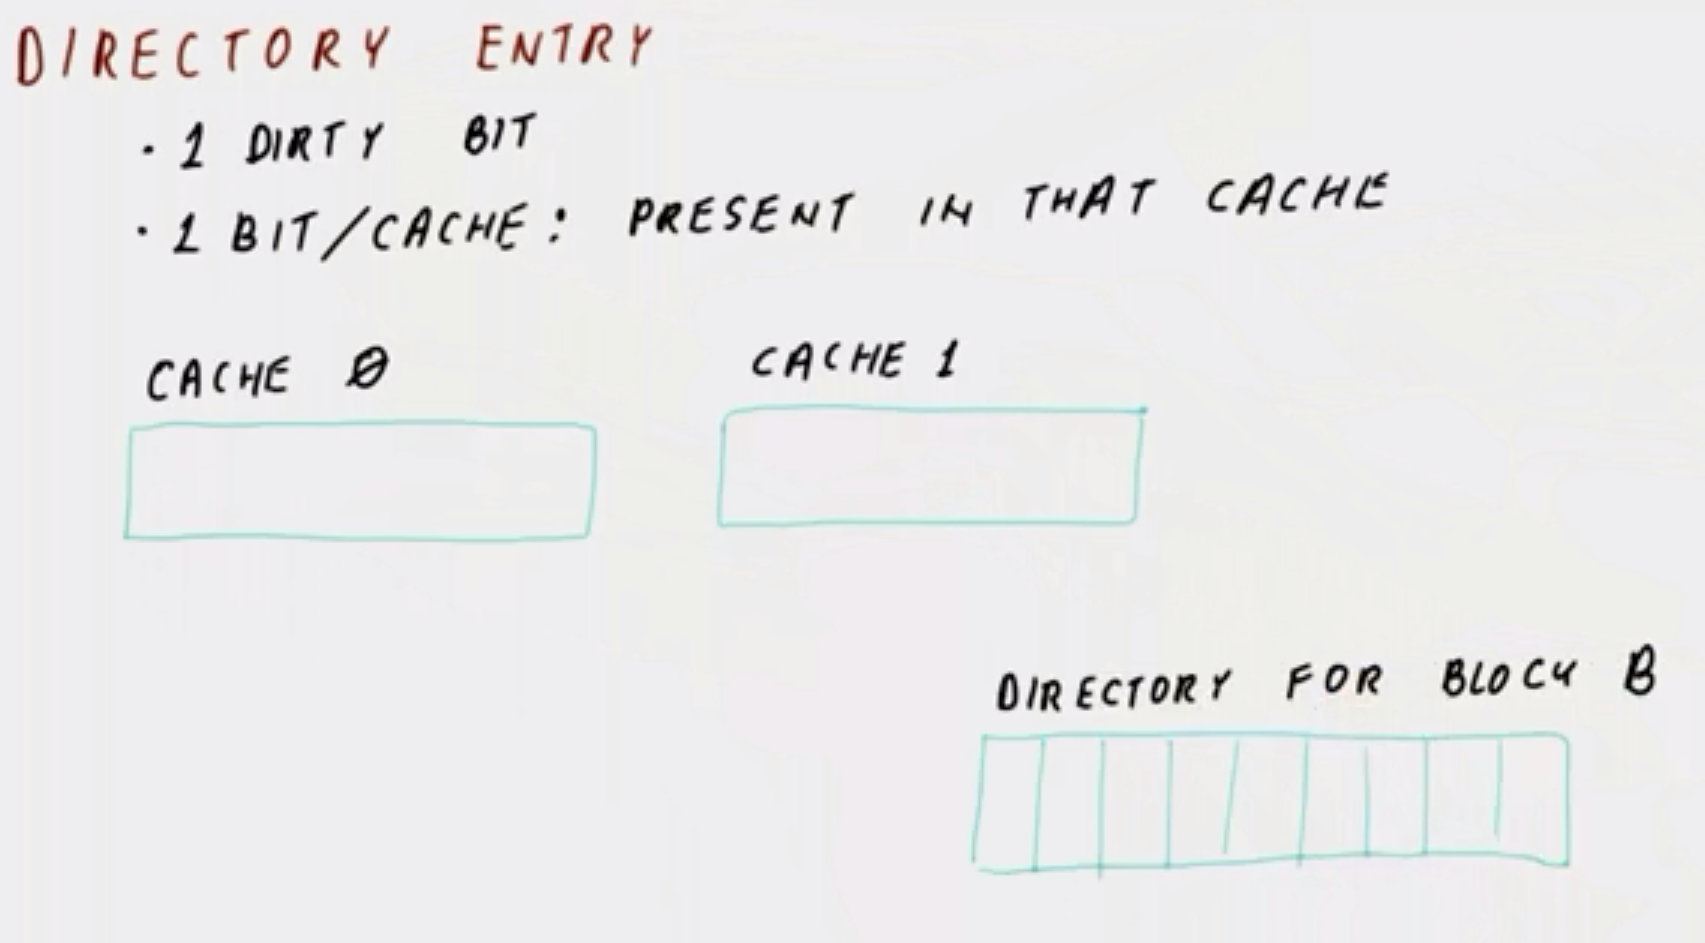
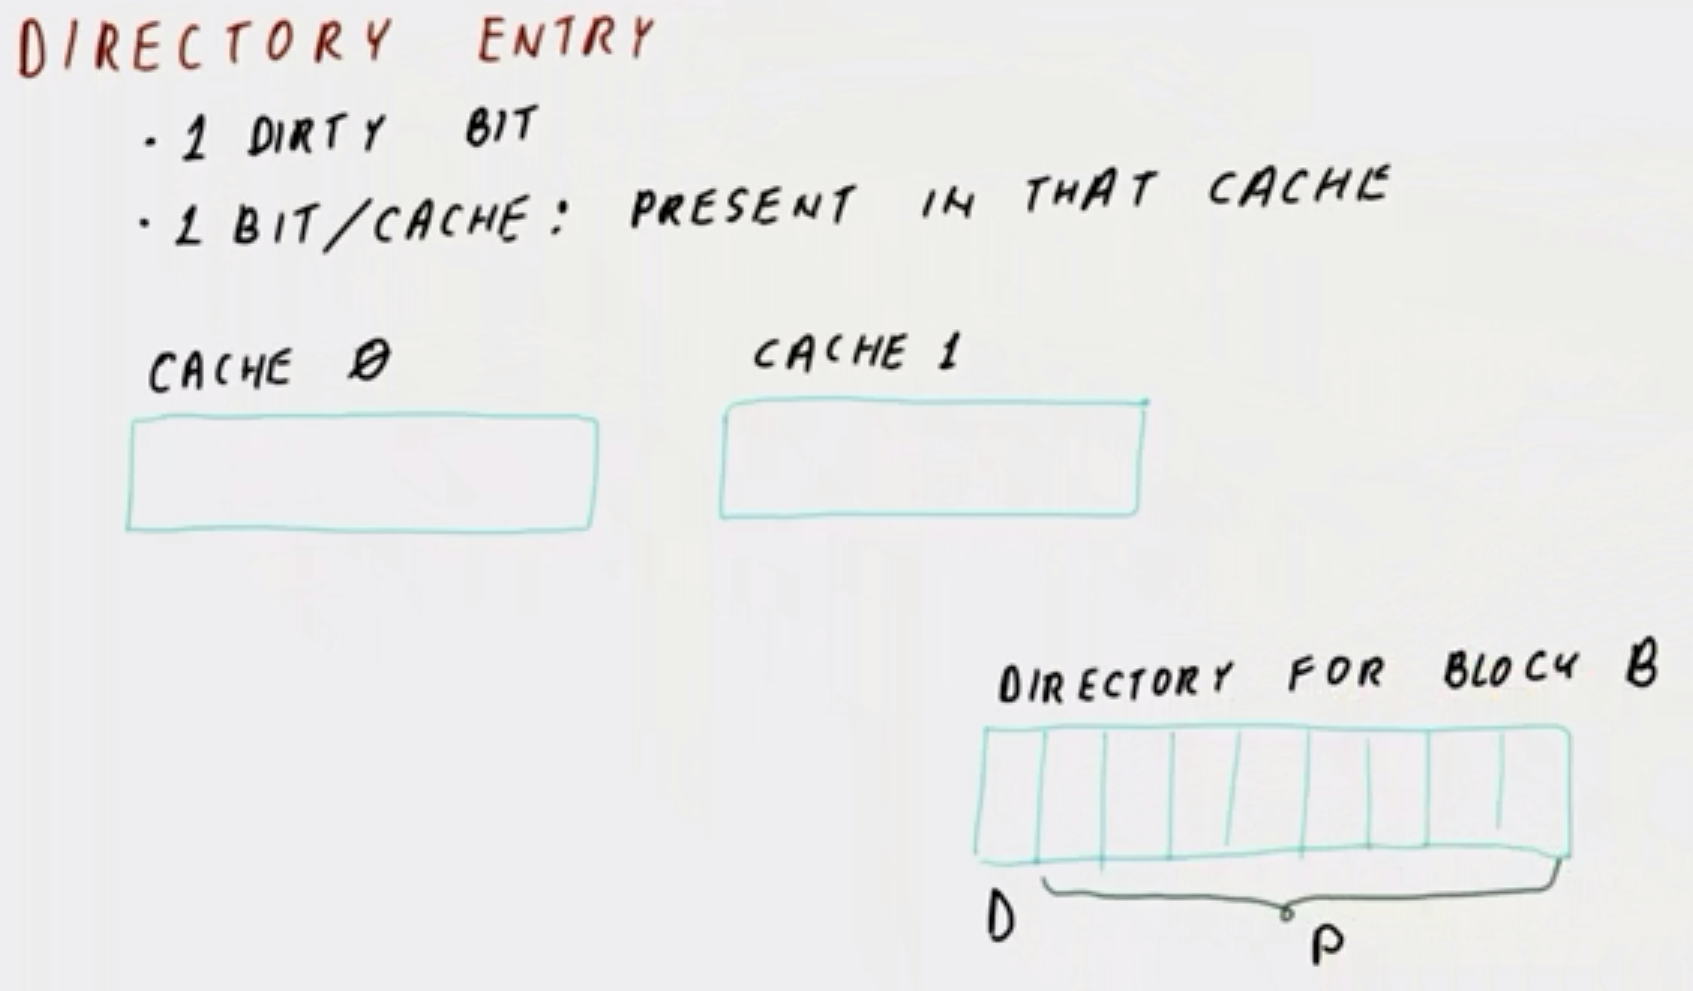
WIP CS 6290 19

diff --git a/cs-6290/19-cache-coherence.md b/cs-6290/19-cache-coherence.md
@@ -1061,3 +1061,61 @@ Note that with a directory-based protocol, the caches still have the ***same*** 
   * In this manner, many requests can travel to their corresponding individual "slices," for subsequent management by the directory.
 
 ### 28. Directory Entry
+
+<center>
+<img src="./assets/19-072.png" width="650">
+</center>
+
+A **directory entry** is comprised of the following:
+  * One ***dirty bit*** (`D`), indicating that the cache block is ***possibly*** dirty in at least one cache within the system
+  * One ***presence bit*** (`P`) bit per cache which indicates whether the cache block is ***definitely*** present within the cache in question
+    * A bit value of `1` indicates that the cache in question has a copy of the cache block
+    * A bit value of `0` indicates that the cache in question does not have a copy of the cache block (in an otherwise non-invalid [non-I] state)
+
+Consider an eight-core system, along with two of its caches `0` and `1` (as in the figure shown above), and with the corresponding directory for block `B`.
+
+<center>
+<img src="./assets/19-073.png" width="650">
+</center>
+
+Initially, the directory is neither dirty nor present among any of its cores' cache block entries (as in the figure shown above).
+
+<center>
+<img src="./assets/19-074.png" width="650">
+</center>
+
+On operation `RD B` from cache `0` (as in the figure shown above), since the cache block is not present, the read request is sent (i.e., `RREQB`).
+  * ***N.B.*** In snooping, this read request is broadcasted onto the bus, and since no other cache contains the cache-block data, the main memory would provide the data instead.
+
+The read request is sent to the home slice of the block (whose address is determined by examining the request), and upon locating the directory for block `B`, it is determined that cache block `B` is not currently present in the system.
+
+The data is consequently fetched from main memory and sent back to cache `0`. Furthermore, this transmission also includes the corresponding updated state information, which in this case updates cache `0` to the exclusive (E) state (i.e., there is exclusive access, since there are currently no other "sharers").
+  * On receipt of the transmission, cache `0` updates its state to exclusive (E) accordingly, and stores the current cache-block data for `B`.
+  * Furthermore, on transmission, the directory updates its present bit for cache `0` to bit value `1`, and also updates its dirty bit to `1` (because it sent the data with exclusive access to cache `0`).
+    * ***N.B.*** Setting the dirty bit to `1` does not induce a write-back, but rather it indicates that it will be necessary to later determine if such a subsequent write-back is indeed necessary.
+
+This begs the question: Why does this work better than a bus? The reason is that while cache `0` manages its state and data via the directory in this manner, cache `1` is able to perform analogous ***independent*** operations with respect to another block (and corresponding directory slice), without otherwise violating coherence.
+
+<center>
+<img src="./assets/19-075.png" width="650">
+</center>
+
+Conversely, if cache `1` attempts a write request (i.e., `WREQB`) operation `WR B` temporally closely to the read operation of cache `0` (as in the figure shown above), then the **directory controller** arbitrates the ordering of these requests (in this case, processing the read request from cache `0` first accordingly).
+
+<center>
+<img src="./assets/19-076.png" width="650">
+</center>
+
+On completion of the read request from cache `0`, the write request from cache `1` commences subsequently (as in the figure shown above).
+  * ***N.B.*** In snooping, this write request is broadcasted onto the bus by cache `1`, and on snooping by cache `0`, cache `0` is transitioned to the invalidated (I) state via corresponding broadcasted invalidation, and cache `1` correspondingly transitions to the modified (M) state (in fact, these are the same state updates which occur in this directory-based scenario, too).
+
+Since the directory detects that cache block `B` is present (i.e., via corresponding presence bit value of `1` for cache `0`) and possibly dirty (i.e., via corresponding dirty bit value of `1`), the directory consequently forwards this write request to the present cache(s) (i.e,. cache `0` in this particular case). Correspondingly, cache `0` detects this request (analogously to snooping from the bus), and since cache `0` is in the exclusive (E) state with respect to cache block `B`, it can elect to either respond with the data or to simply "passively" acknowledge the invalidation, back to the directory controller (which in turn records that invalidation of the data copy has been concluded).
+
+On receipt of ***acknowledgement*** by the directory, the directory updates the corresponding present bit(s) to bit value `0`. Furthermore, if the data was not also transmitted, then the dirty bit can be reset to `0` (not indicated in the figure shown above).
+
+The data is subsequently fetched from main memory, and then transmitted to cache `1`, along with corresponding update of the dirty bit to `1` and the present bit for cache `1` to bit value `1`. Correspondingly, cache `1`  transitions to state modified (M), and stores the cache-block data accordingly.
+
+In this manner, coherence is still maintained in a directory-based system. However, rather than broadcasting *all* requests among *all* caches, instead the directory mediates these requests, and correspondingly interacts with the pertinent caches on a "strictly necessary" basis only (i.e., those which may be currently interacting with the cache block in question).
+  * In this example, since the cache block `B` is only shared by two cores (`0` and `1`), no other cores are affected by these operations. Correspondingly, this greatly reduces the "traffic" relative to an equivalent snooping-based system-wide-broadcasting cache.
+
+### 29. Directory Example
